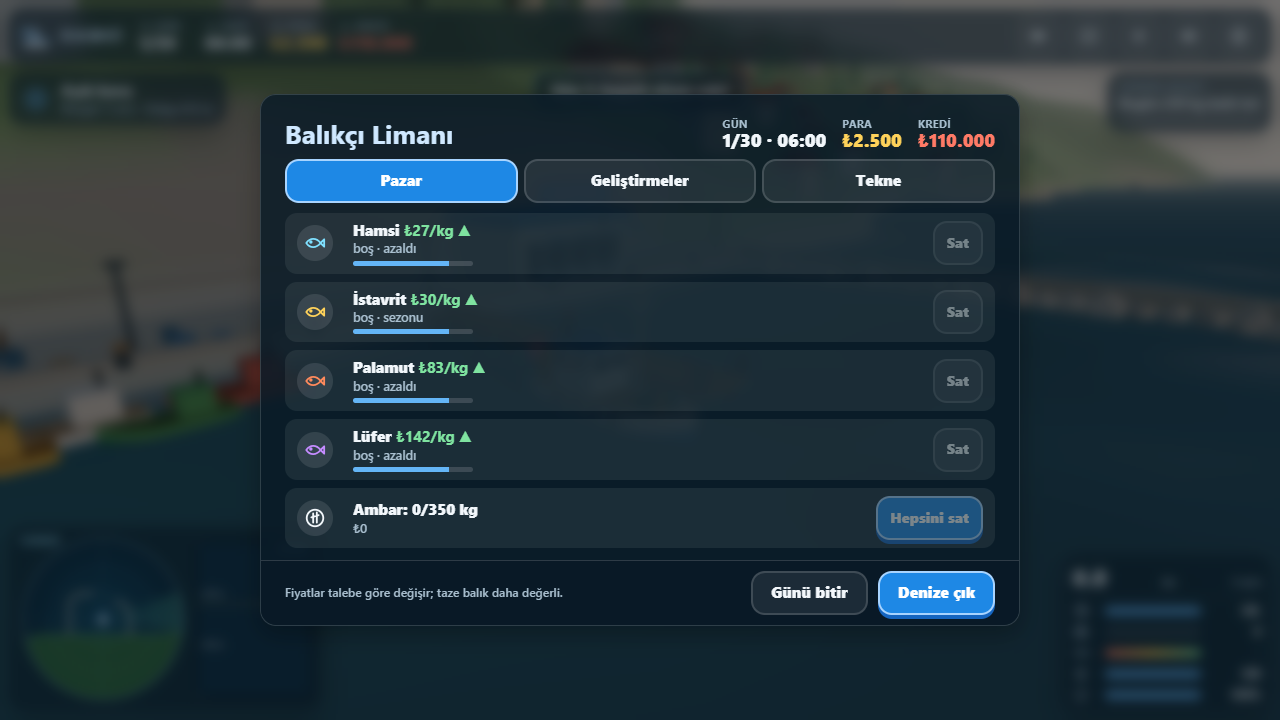
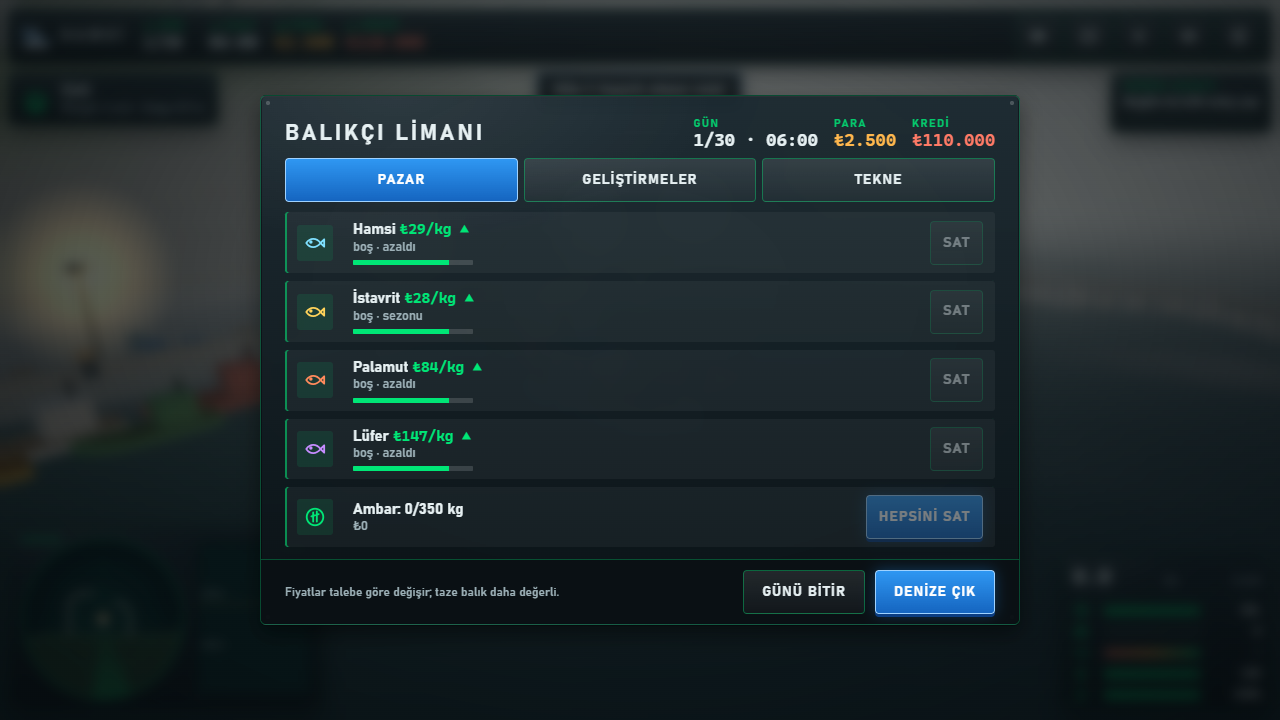
feat(redesign): phone-checked UI, new screenshots, before/after, README redesign section
Claude-Session: https://claude.ai/code/session_014vMYwwQ3htV8WjCni8q7av

diff --git a/index.html b/index.html
@@ -1505,13 +1505,13 @@ function buildBoat() {
   L.push(gCyl(0.55, 0.55, 0.12, 12, -1.4, 2.4, 1.42, '#ffffff', { rx: Math.PI / 2 }), gCyl(0.3, 0.3, 0.14, 12, -1.4, 2.4, 1.42, '#c0392b', { rx: Math.PI / 2 }));
   L.push(gCyl(0.06, 0.06, 2.0, 5, -4.55, 2.0, 0, '#d8d4c8'), gCyl(0.06, 0.06, 1.6, 5, 5.3, 2.2, 0, '#d8d4c8'));
   L.push(gCyl(0.07, 0.08, 3.0, 5, -4.2, 3.0, 1.05, '#c9c5b8'), gCyl(0.07, 0.08, 3.0, 5, -4.2, 3.0, -1.05, '#c9c5b8'), gBox(0.14, 0.14, 2.3, -4.2, 4.5, 0, '#c9c5b8'), gSph(0.2, -4.2, 4.2, 0, '#e0791f'));
-  L.push(gBox(0.8, 0.5, 0.7, 0.4, 1.3, 1.0, '#e0791f'), gBox(0.8, 0.5, 0.7, 0.4, 1.3, -1.0, '#e0791f'), gBox(0.8, 0.5, 0.7, 0.4, 1.78, 1.0, '#f2c230'), gBox(0.12, 0.3, 4.4, -0.2, 1.1, 1.74, '#5a3a22'), gBox(0.12, 0.3, 4.4, -0.2, 1.1, -1.74, '#5a3a22'));
+  L.push(gBox(0.8, 0.5, 0.7, 0.4, 1.3, 1.0, '#e0791f'), gBox(0.8, 0.5, 0.7, 0.4, 1.3, -1.0, '#e0791f'), gBox(0.8, 0.5, 0.7, 0.4, 1.78, 1.0, '#f2c230'));
   boatMesh = new THREE.Mesh(mergeGeometries(L.map(g => (g.index ? g.toNonIndexed() : g)), false), new THREE.MeshLambertMaterial({ vertexColors: true, side: THREE.DoubleSide }));
   boatMesh.castShadow = true; boatGroup.add(boatMesh);
   const W = '#ffc15a', LL = [gBox(0.06, 0.8, 1.0, 0.045, 2.6, -0.65, W), gBox(0.06, 0.8, 1.0, 0.045, 2.6, 0.65, W), gBox(1.0, 0.7, 0.06, -1.0, 2.6, 1.395, W), gBox(1.0, 0.7, 0.06, -1.0, 2.6, -1.395, W), gBox(1.0, 0.7, 0.06, -2.0, 2.6, 1.395, W), gBox(1.0, 0.7, 0.06, -2.0, 2.6, -1.395, W),
     gSph(0.2, 1.9, 6.7, 0, '#ffffff'), gSph(0.16, 1.2, 2.0, 1.55, '#ff3b30'), gSph(0.16, 1.2, 2.0, -1.55, '#2ee86a'), gSph(0.22, -3.0, 4.0, 0, '#ffd27a')];
   boatLights = new THREE.Mesh(mergeGeometries(LL.map(g => (g.index ? g.toNonIndexed() : g)), false), boatLightMat); boatGroup.add(boatLights);
-  const deckGlow = new THREE.Sprite(boatGlowMat); deckGlow.position.set(-3.0, 4.0, 0); deckGlow.scale.set(9, 9, 1); boatGroup.add(deckGlow);
+  const deckGlow = new THREE.Sprite(boatGlowMat); deckGlow.position.set(-3.0, 4.0, 0); deckGlow.scale.set(5.5, 5.5, 1); boatGroup.add(deckGlow);
   flagMesh.position.set(-4.55, 2.5, 0.75); flagMesh.rotation.y = Math.PI / 2; boatGroup.add(flagMesh);
   // crew
   const slots = [[-2.6, 1.05, 1.05], [-3.3, 1.05, -1.35], [1.8, 1.05, 0.9]];
@@ -1639,7 +1639,7 @@ const pingRing = new THREE.Mesh(new THREE.RingGeometry(0.94, 1, 56).rotateX(-Mat
 pingRing.visible = false; pingRing.frustumCulled = false; scene.add(pingRing); let pingT = 0;
 function updatePing(dt) {
   const on = G.mode === 'play' && !G.paused; if (!on) { pingRing.visible = false; return; }
-  pingT += dt; const k = (pingT % 3.2) / 3.2, R = sonarRange() * 0.5 * k + 2; pingRing.visible = true; pingRing.position.set(G.boat.x, waveH(G.boat.x, G.boat.z) + 0.2, G.boat.z); pingRing.scale.set(R, 1, R); pingRing.material.opacity = 0.5 * (1 - k) * (1 - k);
+  pingT += dt; const k = (pingT % 3.2) / 3.2, R = 70 * k + 2; pingRing.visible = true; pingRing.position.set(G.boat.x, waveH(G.boat.x, G.boat.z) + 0.2, G.boat.z); pingRing.scale.set(R, 1, R); pingRing.material.opacity = 0.4 * (1 - k) * (1 - k);
 }
 
 /* ---------- dock marker */
@@ -1674,7 +1674,7 @@ function updateEnv(dt) {
     mistBankMat.color.copy(SKY.hor); mistBankMat.opacity = 0.16 + 0.34 * w.fogMorning + 0.2 * w.s; for (const b of mistBanks) b.position.y += Math.sin(VT * 0.2 + b.userData.ph) * 0.004; }
   sky.position.copy(camera.position); sunSprite.position.copy(camera.position).addScaledVector(sd, 3000); sunSprite.material.opacity = (1 - over) * 0.8; sunSprite.visible = sunSprite.material.opacity > 0.03 && sd.y > 0.02;
   const b = G.boat; sun.position.set(b.x + sd.x * 90, sd.y * 90, b.z + sd.z * 90); sun.target.position.set(b.x, 0, b.z); sun.target.updateMatrixWorld();
-  { const dk = clamp(over * 0.9 + warm * 0.8 + w.fogMorning * 0.5, 0, 1); boatLightMat.color.setScalar(0.2 + 0.8 * dk); boatGlowMat.opacity = 0.05 + 0.5 * dk; }
+  { const dk = clamp(over * 0.9 + warm * 0.8 + w.fogMorning * 0.5, 0, 1); boatLightMat.color.setScalar(0.2 + 0.8 * dk); boatGlowMat.opacity = 0.04 + 0.3 * dk; }
   lampGlowMat.opacity = 0.18 + 0.7 * clamp(over * 0.9 + warm * 0.8 + w.fogMorning * 0.5, 0, 1);
   if (lighthouseLamp) { const on = Math.sin(VT * 2.6) > 0.1 || w.s > 0.2 ? 1 : 0.15; blinkMat.emissiveIntensity = (0.6 + 1.4 * (over + warm * 0.5)) * on; beaconMat.emissiveIntensity = 0.6 + 0.6 * Math.sin(VT * 3); }
   dockRing.visible = dockBeam.visible = (G.mode === 'play'); const pulse = 1 + Math.sin(VT * 3) * 0.06; dockRing.scale.set(pulse, 1, pulse); dockRing.material.opacity = canDock() ? 0.95 : 0.55; dockBeam.material.opacity = 0.18 + 0.08 * Math.sin(VT * 2);

diff --git a/README.md b/README.md
@@ -36,7 +36,7 @@
   tow at 18:00. Prices follow the season and fall as you sell; fresh fish pays more. Buy fuel, ice, repairs and
   upgrades for the net, sonar, engine, hold, ice box and crew.
 - **Played by a bot.** `?auto` plays the whole 30-day season with the same controls and rules as a player, using only
-  sonar data. Measured: **season finished as reis, loan paid on day 26-27**, 60 fps, 21-35 draw calls.
+  sonar data. Measured: **season finished as reis, loan paid**, 60 fps, 18-56 draw calls.
 - **One file, made in code.** One `index.html` with Three.js r170 from a CDN: a wave-displaced ocean, a coast with tea
   terraces and a harbour, a boat lofted in code, and engine, waves, gulls and a kemençe-style horon tune in 7/8
   synthesised with Web Audio.
@@ -98,11 +98,28 @@ The live state is on `window.hamsi` (day, money, loan, boat, schools, net, weath
     <td width="33%"><img src="docs/02-harbour.png" alt="Fish market prices in the harbour screen"><br><sub>Fish market in the harbour</sub></td>
   </tr>
   <tr>
-    <td><img src="docs/03-sailing.png" alt="Sailing out on a clear day"><br><sub>Sailing out</sub></td>
+    <td><img src="docs/03-sailing.png" alt="Sailing out on a clear day"><br><sub>Leaving the harbour</sub></td>
     <td><img src="docs/05-storm.png" alt="A storm with rain and big waves"><br><sub>Caught in a storm</sub></td>
     <td><img src="docs/06-phone.png" alt="Hamsi on a phone with the touch controls"><br><sub>On a phone</sub></td>
   </tr>
 </table>
+
+## Redesign (2026-11)
+
+**Art direction:** moody maritime stylized. Palette: Black Sea slate `#24343F`, foam `#E6F0F2`, boat blue `#1E88E5`, tea-terrace green `#4C7A3A`, sodium harbour `#FFB74D`, with sonar green `#00E676` for the instruments. The HUD is a set of wet-weather instrument panels (dark steel, rivets, sonar-green hairlines, monospace readouts, segmented gauge bars).
+
+<p align="center"><img src="docs/redesign-before-after.png" width="100%" alt="Before and after: the same open-sea moment with the old glass HUD on the left and the new instrument-panel look on the right"></p>
+
+What changed (visuals only; physics, controls, scoring, bot, saves and the 30-day structure are untouched):
+
+- **Palette and light:** desaturated slate sea with deeper wave troughs and always-present whitecaps, overcast-leaning sky, warmer low sun, darker forest and wet-concrete quay.
+- **Environment:** two scrolling mist rings plus nine low mist banks along the coast (thicker in the morning fog and storms), houses with windows, doors and chimneys, sodium harbour lamps that glow more in mist, storms and evening.
+- **Boat and crew:** trawler with an A-frame, fish boxes, navigation lights, lit wheelhouse windows and a deck lamp that brighten in bad light, sou'wester hats on the crew, floats that bob on the net.
+- **Animation and FX:** denser, longer rain streaks, rain droplets on the "lens" during storms, a sonar ping ring leaving the hull every 3.2 s.
+- **UI:** every screen (title, HUD, harbour, summary, ending, pause, settings, map) restyled; sonar, fish finder and map redrawn in sonar green on dark; Bahnschrift / Cascadia Mono system fonts with fallbacks, no new files or requests.
+- **Phone:** same layout rules as before, re-checked at 500x900 with the new panels.
+
+Measured on the development laptop (Intel UHD 620, headless Chrome, 1280x720; before is the `main` build, after is this branch): 60 fps in both; draw calls 18 before and 23-24 after while sailing clear water, up to 49-56 after during netting, storms and harbour views (budget about 150). The `?auto` bot finished the 30-day season as reis with the loan paid, with 0 JavaScript errors. Not checked: a real phone, Firefox and Safari.
 
 ## Running locally
 
@@ -129,7 +146,7 @@ Everything is generated in code, so there are no asset files and no credits to l
 - **Audio:** engine chug, waves, wind, gulls, creaks, market chatter and a kemençe-style horon tune in 7/8, all
   synthesised with Web Audio.
 - **Performance:** measured on the development laptop's Intel UHD iGPU in headless Chrome at 1280x720: 60 fps with
-  21-35 draw calls and about 165k triangles (one directional light with a 1024 shadow map, pixel ratio capped at 1.5,
+  18-56 draw calls (one directional light with a 1024 shadow map, pixel ratio capped at 1.5,
   no post-processing).
 
 </details>
